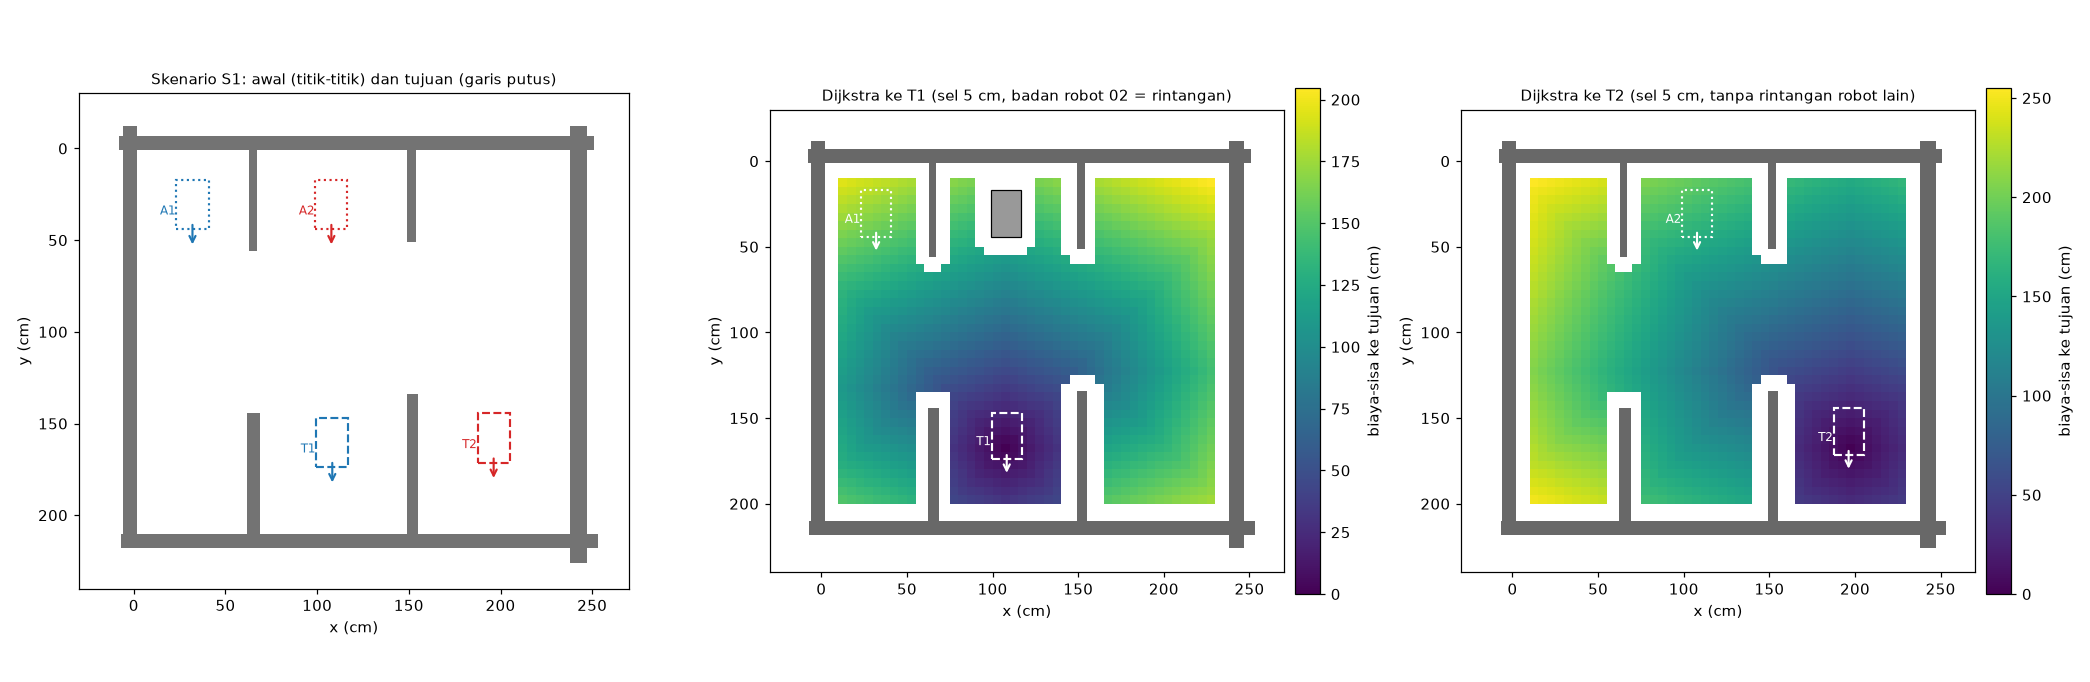
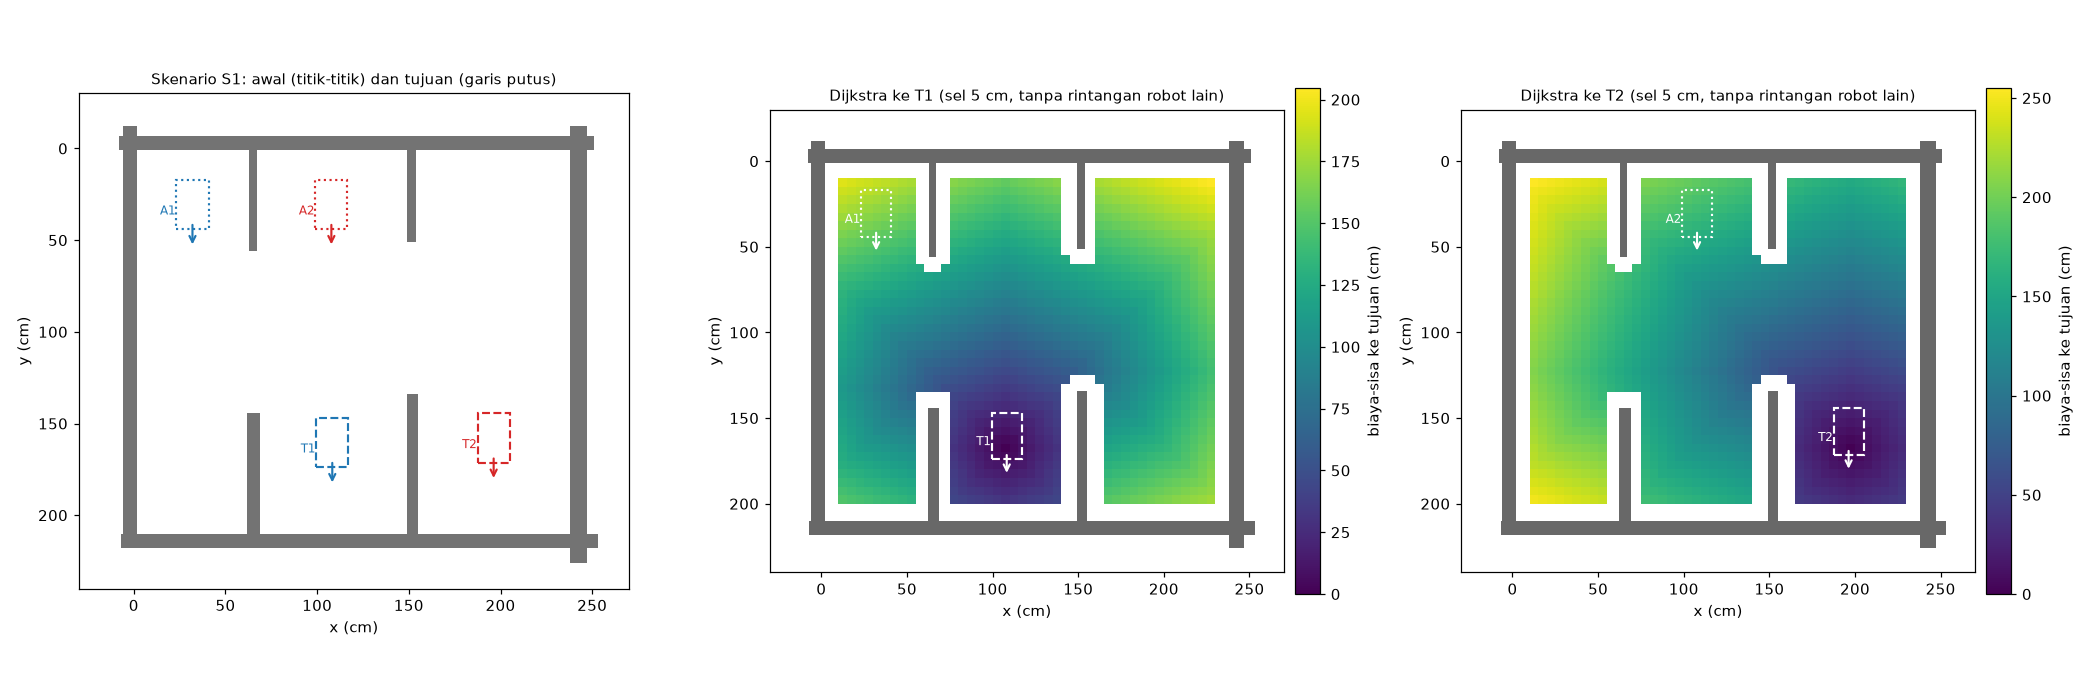
Obsidian 18: heatmap Dijkstra kondisi simetris
Peta Dijkstra robot 01 di S1 dan S2 digambar ulang tanpa badan robot 02
sebagai rintangan, sesuai uji sesudah 8c2d1fd. Biaya di titik awal tidak
berubah (156/162/140/135 cm). Tabel panjang jalur memakai run final
20261104_232645_Gudang_sim.

Changed region(s): [[0.3732, 0.1232, 0.5909, 0.154], [0.4665, 0.2463, 0.4976, 0.3695]]

diff --git a/Obsidian Vault/18 Skenario Gudang Baru dan Simulasi Makespan serta Waktu Proses.md b/Obsidian Vault/18 Skenario Gudang Baru dan Simulasi Makespan serta Waktu Proses.md
@@ -57,22 +57,24 @@ Setiap pose diperiksa **sebagai tujuan** untuk kedua perencana, dan semuanya mua
 
 Panel kiri menampilkan pose awal (titik-titik) dan tujuan (garis putus) dengan panah arah hadap. Biru adalah robot 01, merah robot 02. Panel tengah dan kanan adalah **heuristik Dijkstra** ke tujuan setiap robot, yaitu biaya-sisa holonomik dalam cm. Peta ini dihitung oleh `_holonomic_heuristic` (Dijkstra 8-tetangga, sel 5 cm, sel diblokir bila jarak bebasnya < setengah lebar badan). Fungsi yang sama dipakai Hybrid A\* sebagai heuristik dan lingkungan DQfD sebagai peta Dijkstra observasi (`drl/lingkungan.py:430`), jadi satu peta per robot berlaku untuk **kedua** perencana.
 
-Kondisinya disamakan dengan saat uji: robot 01 merencana dengan badan robot 02 di pose awalnya sebagai rintangan (kotak abu-abu), sedangkan robot 02 tanpa rintangan robot lain. Lihat bagian 3.3.
+Kondisinya disamakan dengan uji sesudah perbaikan di bagian 5 (tujuan simetris, commit `8c2d1fd`): **kedua robot merencana tanpa badan robot lain sebagai rintangan**. Pada versi gambar sebelumnya, peta robot 01 masih memuat badan robot 02 di pose awalnya sebagai rintangan. Itu kondisi run asimetris (bagian 3.3), dan gambarnya bisa dibuat ulang dengan `gambar_peta.py --asimetris`. Biaya Dijkstra di titik awal tidak berubah karena badan itu tidak berada di rute terpendek. Yang berubah hanya sel di sekitar A2 yang sebelumnya tertutup.
 
 ![[Skenario Gudang 2026-11-04 S1.png]]
 
 ![[Skenario Gudang 2026-11-04 S2.png]]
 
+Panjang jalur dari run final (`20261104_232645_Gudang_sim`):
+
 | Skenario | Robot | Biaya Dijkstra di titik awal | Jalur Hybrid A\* | Jalur DQfD murni |
 |---|---|---:|---:|---:|
-| S1 | 01 | 156 cm | 223 cm | 159 cm |
-| S1 | 02 | 162 cm | 221 cm | 171 cm |
-| S2 | 01 | 140 cm | 192 cm | 192 cm |
-| S2 | 02 | 135 cm | 195 cm | 195 cm |
+| S1 | 01 | 156 cm | 223,0 cm | 156,4 cm |
+| S1 | 02 | 162 cm | 221,4 cm | 170,6 cm |
+| S2 | 01 | 140 cm | 192,0 cm | 192,0 cm |
+| S2 | 02 | 135 cm | 194,7 cm | 194,7 cm |
 
 - **Dijkstra mengabaikan arah hadap dan jari-jari belok**, jadi nilainya batas bawah kasar untuk panjang jalur.
-- Di **S1**, jalur DQfD hanya 2–6% di atas biaya Dijkstra. Jalur Hybrid A\* 36–43% di atasnya, karena manuver mundur-maju di ruang tengah.
-- Di **S2**, Dijkstra hanya "melihat" garis lurus ke bawah (135–140 cm). Putar balik 180° menambah ±55 cm, dan biaya itu sama untuk kedua perencana. Karena itu S2 tidak membedakan perencana.
+- Di **S1**, jalur DQfD hanya 0–5% di atas biaya Dijkstra. Jalur robot 01 praktis sama dengan batas bawahnya. Jalur Hybrid A\* 37–43% di atasnya, karena manuver mundur-maju di ruang tengah.
+- Di **S2**, Dijkstra hanya "melihat" garis lurus ke bawah (135–140 cm). Putar balik 180° menambah 52–60 cm, dan biaya itu sama untuk kedua perencana. Karena itu S2 tidak membedakan perencana.
 
 ### 1.3 Temuan: pose awal yang tidak bisa dipakai pulang
 - Pose awal S1 yang pertama, y = 34,5 dan 31,1 dengan yaw 90°, menaruh buntut badan (23 cm di belakang poros depan) 8–12 cm dari dinding Z1.
@@ -277,7 +279,7 @@ Diukur offline (Python 3.14.3, Windows): loop utama berdetak 20 Hz seperti `navi
 |---|---|
 | Skenario | `Forklift Robot Program/uji_nyata/Gudang.json`, salinannya di folder hasil (`skenario.json`) |
 | Bagian 1.2–1.3 | skrip sementara di luar repo: `lurus_tengah.py` (yaw dan tengah lorong), `ubah_y.py` dan `cari_y.py` (batas y awal), `cek_pulang.py` (jalur pulang), `balik_s2.py` (arah tujuan S2) |
-| Bagian 1.2.1 (gambar peta, skenario, Dijkstra) | skrip sementara `gambar_peta.py`: `HybridAStarPlanner._holonomic_heuristic` pada `Perencana.peta_dengan()` |
+| Bagian 1.2.1 (gambar peta, skenario, Dijkstra) | skrip sementara `gambar_peta.py` (tanpa opsi = kondisi simetris; `--asimetris` = kondisi lama): `HybridAStarPlanner._holonomic_heuristic` pada `Perencana.peta_dengan()`; panjang jalur dari `20261104_232645_Gudang_sim` |
 | Bagian 2–3.2 | `Forklift Robot Program/uji_nyata/20261104_224635_Gudang_sim/` (`hasil.jsonl`, `ringkasan.json`, `rincian_tabel.tex`, `lintasan_S1.png`, `lintasan_S2.png`), direkap dengan skrip sementara `rekap.py` |
 | Bagian 3.3 | skrip sementara `ukur_peta.py` (`peta_dengan`, 50 ulangan) dan `ukur_lain.py` (`rencanakan` robot 01 dengan/tanpa rintangan, 7 ulangan), Windows, offline |
 | Bagian 5.1 | run asimetris `20261104_224635_Gudang_sim`, run simetris tanpa kunci `20261104_230522_Gudang_sim`, offline `offline_simetris.py` (median 9 ulangan) |
